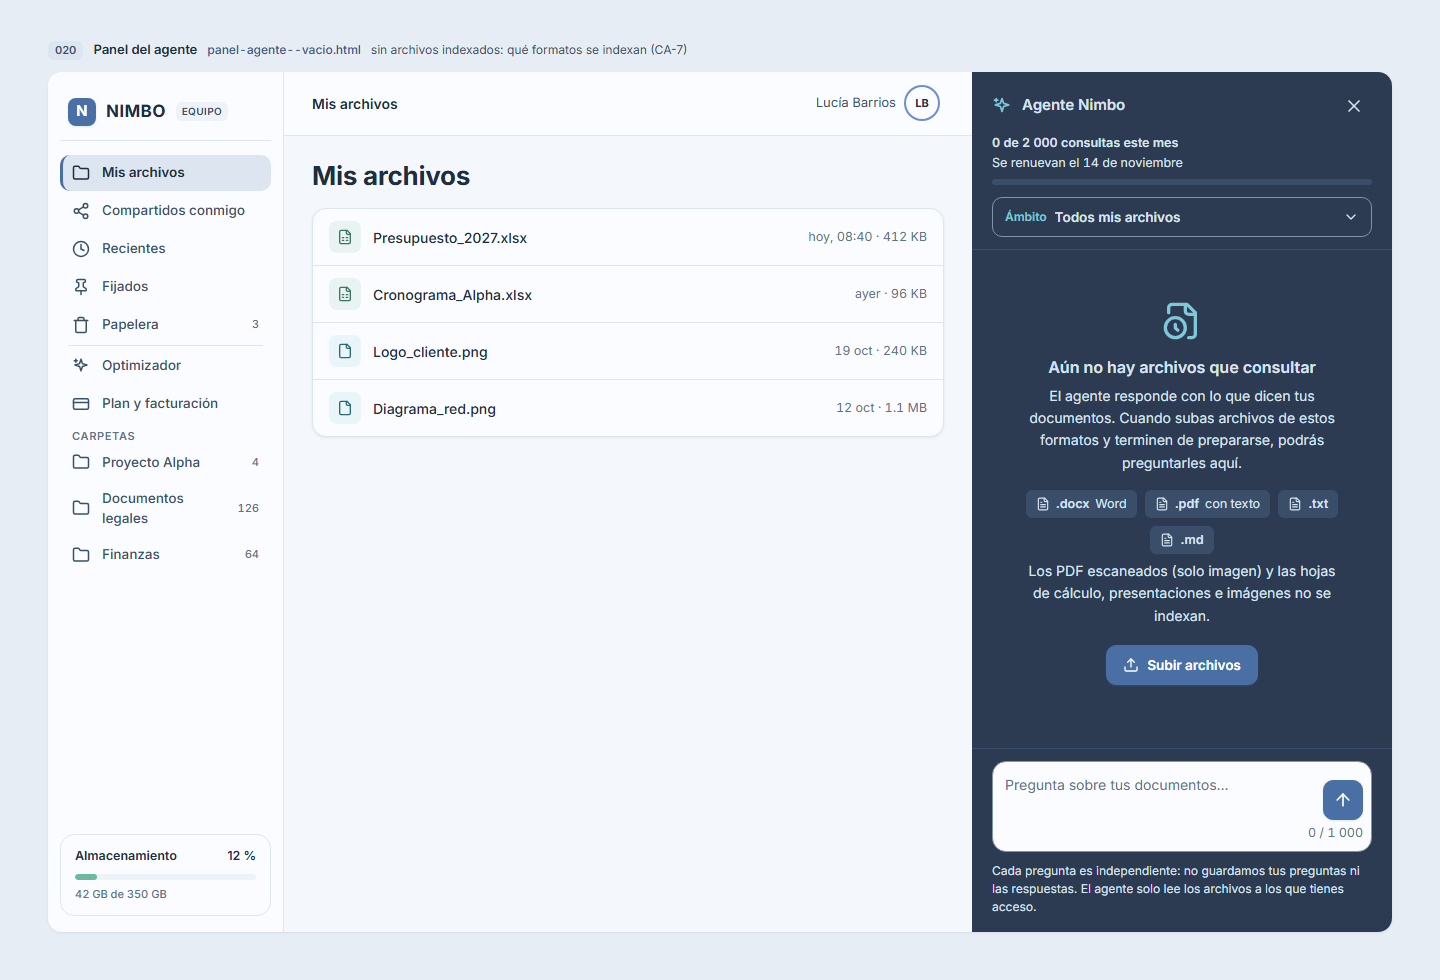
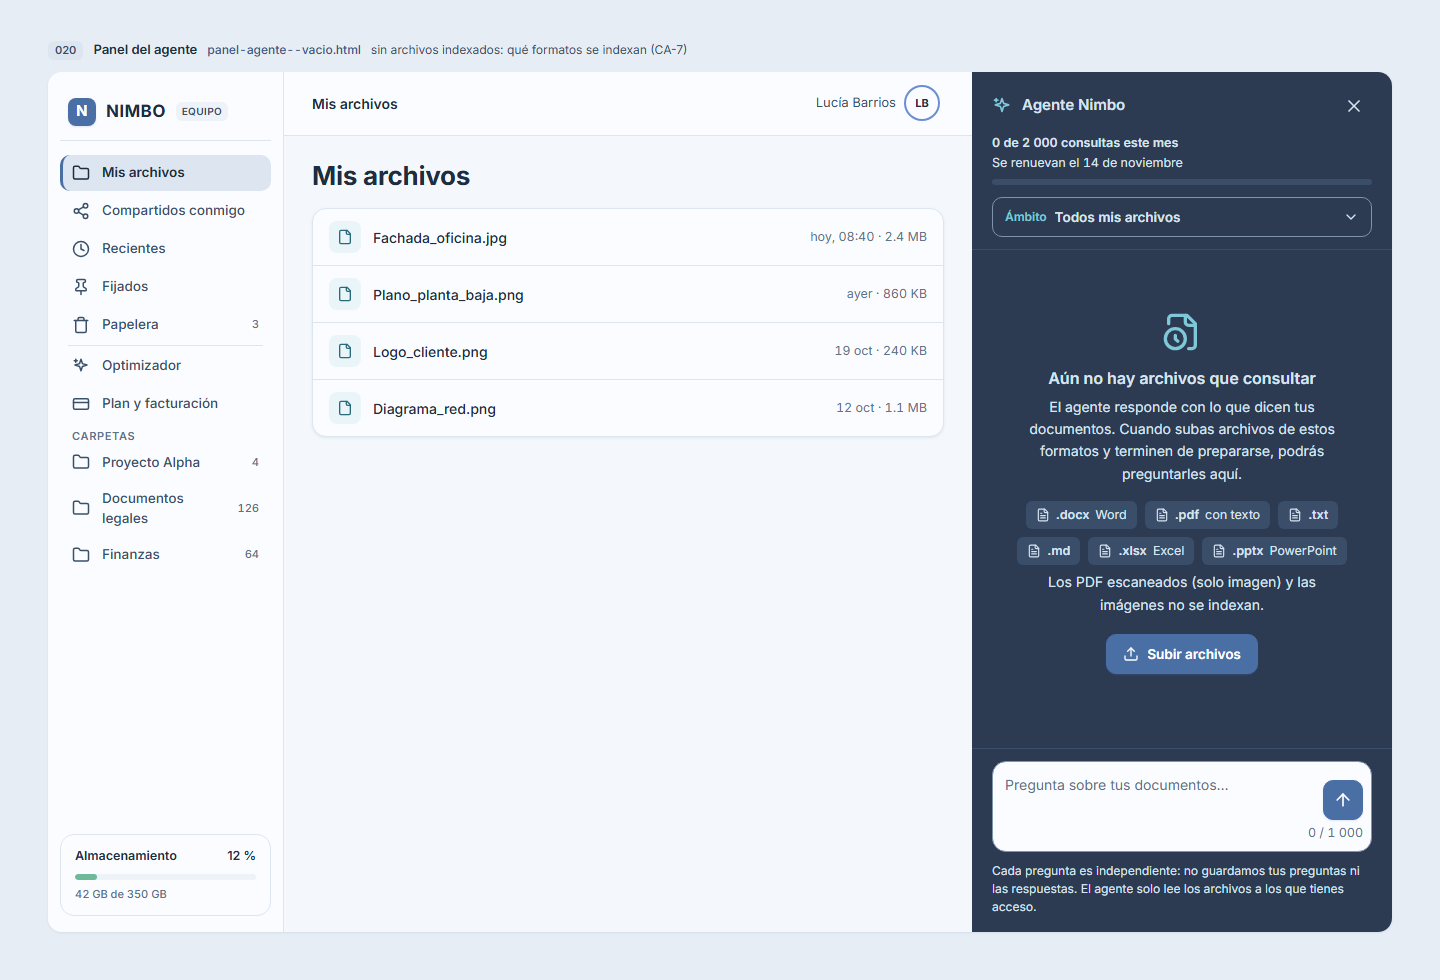
docs(design): estado vacío del panel del agente con los seis formatos que indexa la 019 [020b]
Claude-Session: https://claude.ai/code/session_01L8td7XsqisBkM9ZyY837rC

diff --git a/docs/design/mockups/intelligence/panel-agente/panel-agente--vacio.html b/docs/design/mockups/intelligence/panel-agente/panel-agente--vacio.html
@@ -396,8 +396,8 @@
         <section aria-labelledby="mis-archivos-t">
           <div class="page-head"><h1 id="mis-archivos-t">Mis archivos</h1></div>
           <ul class="files" style="margin-top: 16px">
-            <li><span class="ftile ftile-xlsx"><svg class="ico " width="16" height="16" viewBox="0 0 24 24" fill="none" stroke="currentColor" stroke-width="2" stroke-linecap="round" stroke-linejoin="round" aria-hidden="true" focusable="false"><path d="M15 2H6a2 2 0 0 0-2 2v16a2 2 0 0 0 2 2h12a2 2 0 0 0 2-2V7Z"/><path d="M14 2v4a2 2 0 0 0 2 2h4"/><path d="M8 13h2"/><path d="M14 13h2"/><path d="M8 17h2"/><path d="M14 17h2"/></svg></span><span class="fn">Presupuesto_2027.xlsx</span><span class="fm">hoy, 08:40 · 412 KB</span></li>
-            <li><span class="ftile ftile-xlsx"><svg class="ico " width="16" height="16" viewBox="0 0 24 24" fill="none" stroke="currentColor" stroke-width="2" stroke-linecap="round" stroke-linejoin="round" aria-hidden="true" focusable="false"><path d="M15 2H6a2 2 0 0 0-2 2v16a2 2 0 0 0 2 2h12a2 2 0 0 0 2-2V7Z"/><path d="M14 2v4a2 2 0 0 0 2 2h4"/><path d="M8 13h2"/><path d="M14 13h2"/><path d="M8 17h2"/><path d="M14 17h2"/></svg></span><span class="fn">Cronograma_Alpha.xlsx</span><span class="fm">ayer · 96 KB</span></li>
+            <li><span class="ftile ftile-img"><svg class="ico " width="16" height="16" viewBox="0 0 24 24" fill="none" stroke="currentColor" stroke-width="2" stroke-linecap="round" stroke-linejoin="round" aria-hidden="true" focusable="false"><path d="M15 2H6a2 2 0 0 0-2 2v16a2 2 0 0 0 2 2h12a2 2 0 0 0 2-2V7Z"/><path d="M14 2v4a2 2 0 0 0 2 2h4"/></svg></span><span class="fn">Fachada_oficina.jpg</span><span class="fm">hoy, 08:40 · 2.4 MB</span></li>
+            <li><span class="ftile ftile-img"><svg class="ico " width="16" height="16" viewBox="0 0 24 24" fill="none" stroke="currentColor" stroke-width="2" stroke-linecap="round" stroke-linejoin="round" aria-hidden="true" focusable="false"><path d="M15 2H6a2 2 0 0 0-2 2v16a2 2 0 0 0 2 2h12a2 2 0 0 0 2-2V7Z"/><path d="M14 2v4a2 2 0 0 0 2 2h4"/></svg></span><span class="fn">Plano_planta_baja.png</span><span class="fm">ayer · 860 KB</span></li>
             <li><span class="ftile ftile-img"><svg class="ico " width="16" height="16" viewBox="0 0 24 24" fill="none" stroke="currentColor" stroke-width="2" stroke-linecap="round" stroke-linejoin="round" aria-hidden="true" focusable="false"><path d="M15 2H6a2 2 0 0 0-2 2v16a2 2 0 0 0 2 2h12a2 2 0 0 0 2-2V7Z"/><path d="M14 2v4a2 2 0 0 0 2 2h4"/></svg></span><span class="fn">Logo_cliente.png</span><span class="fm">19 oct · 240 KB</span></li>
             <li><span class="ftile ftile-img"><svg class="ico " width="16" height="16" viewBox="0 0 24 24" fill="none" stroke="currentColor" stroke-width="2" stroke-linecap="round" stroke-linejoin="round" aria-hidden="true" focusable="false"><path d="M15 2H6a2 2 0 0 0-2 2v16a2 2 0 0 0 2 2h12a2 2 0 0 0 2-2V7Z"/><path d="M14 2v4a2 2 0 0 0 2 2h4"/></svg></span><span class="fn">Diagrama_red.png</span><span class="fm">12 oct · 1.1 MB</span></li>
           </ul>
@@ -438,8 +438,10 @@
             <li><svg class="ico " width="14" height="14" viewBox="0 0 24 24" fill="none" stroke="currentColor" stroke-width="2" stroke-linecap="round" stroke-linejoin="round" aria-hidden="true" focusable="false"><path d="M15 2H6a2 2 0 0 0-2 2v16a2 2 0 0 0 2 2h12a2 2 0 0 0 2-2V7Z"/><path d="M14 2v4a2 2 0 0 0 2 2h4"/><path d="M10 9H8"/><path d="M16 13H8"/><path d="M16 17H8"/></svg><strong>.pdf</strong> con texto</li>
             <li><svg class="ico " width="14" height="14" viewBox="0 0 24 24" fill="none" stroke="currentColor" stroke-width="2" stroke-linecap="round" stroke-linejoin="round" aria-hidden="true" focusable="false"><path d="M15 2H6a2 2 0 0 0-2 2v16a2 2 0 0 0 2 2h12a2 2 0 0 0 2-2V7Z"/><path d="M14 2v4a2 2 0 0 0 2 2h4"/><path d="M10 9H8"/><path d="M16 13H8"/><path d="M16 17H8"/></svg><strong>.txt</strong></li>
             <li><svg class="ico " width="14" height="14" viewBox="0 0 24 24" fill="none" stroke="currentColor" stroke-width="2" stroke-linecap="round" stroke-linejoin="round" aria-hidden="true" focusable="false"><path d="M15 2H6a2 2 0 0 0-2 2v16a2 2 0 0 0 2 2h12a2 2 0 0 0 2-2V7Z"/><path d="M14 2v4a2 2 0 0 0 2 2h4"/><path d="M10 9H8"/><path d="M16 13H8"/><path d="M16 17H8"/></svg><strong>.md</strong></li>
+            <li><svg class="ico " width="14" height="14" viewBox="0 0 24 24" fill="none" stroke="currentColor" stroke-width="2" stroke-linecap="round" stroke-linejoin="round" aria-hidden="true" focusable="false"><path d="M15 2H6a2 2 0 0 0-2 2v16a2 2 0 0 0 2 2h12a2 2 0 0 0 2-2V7Z"/><path d="M14 2v4a2 2 0 0 0 2 2h4"/><path d="M10 9H8"/><path d="M16 13H8"/><path d="M16 17H8"/></svg><strong>.xlsx</strong> Excel</li>
+            <li><svg class="ico " width="14" height="14" viewBox="0 0 24 24" fill="none" stroke="currentColor" stroke-width="2" stroke-linecap="round" stroke-linejoin="round" aria-hidden="true" focusable="false"><path d="M15 2H6a2 2 0 0 0-2 2v16a2 2 0 0 0 2 2h12a2 2 0 0 0 2-2V7Z"/><path d="M14 2v4a2 2 0 0 0 2 2h4"/><path d="M10 9H8"/><path d="M16 13H8"/><path d="M16 17H8"/></svg><strong>.pptx</strong> PowerPoint</li>
           </ul>
-          <p>Los PDF escaneados (solo imagen) y las hojas de cálculo, presentaciones e imágenes no se indexan.</p>
+          <p>Los PDF escaneados (solo imagen) y las imágenes no se indexan.</p>
           <a class="btn btn-primary" href="#"><svg class="ico " width="16" height="16" viewBox="0 0 24 24" fill="none" stroke="currentColor" stroke-width="2" stroke-linecap="round" stroke-linejoin="round" aria-hidden="true" focusable="false"><path d="M21 15v4a2 2 0 0 1-2 2H5a2 2 0 0 1-2-2v-4"/><path d="m17 8-5-5-5 5"/><path d="M12 3v12"/></svg>Subir archivos</a>
         </div>
       </div>

diff --git a/docs/design/mockups/intelligence/panel-agente/README.md b/docs/design/mockups/intelligence/panel-agente/README.md
@@ -10,7 +10,7 @@
 - **Estados incluidos** (`panel-agente--<estado>.html`):
   - con-citas: respuesta completa; cada afirmación lleva su cita. A la izquierda, el fragmento citado resaltado en su documento (CA-1, CA-8, CA-10).
   - inicio: hay archivos indexados y todavía no hay preguntas («Pregunta sobre tus documentos»).
-  - vacio: sin archivos indexados. Explica qué formatos se indexan (`.docx`, `.pdf` con texto, `.txt`, `.md`), qué no, y ofrece «Subir archivos» (CA-7).
+  - vacio: sin archivos indexados. Explica qué formatos se indexan (`.docx`, `.pdf` con texto, `.txt`, `.md`, `.xlsx` y `.pptx`, según S-2 de la 020b), qué no (PDF escaneados e imágenes), y ofrece «Subir archivos» (CA-7).
   - respondiendo: streaming con indicador en vivo («Escribiendo…», punto y cursor), cuadro de pregunta apagado (CA-1, RNF-03).
   - sin-resultados: «No encontré esto en tus documentos», sin citas, con la pista de ampliar el ámbito y la nota de que cuenta como consulta (CA-3, RN-5).
   - cita-incierta: chip con «ubicación aproximada» y el aviso en el texto «La ubicación de esta cita es aproximada», junto a una cita certera (CA-4).
